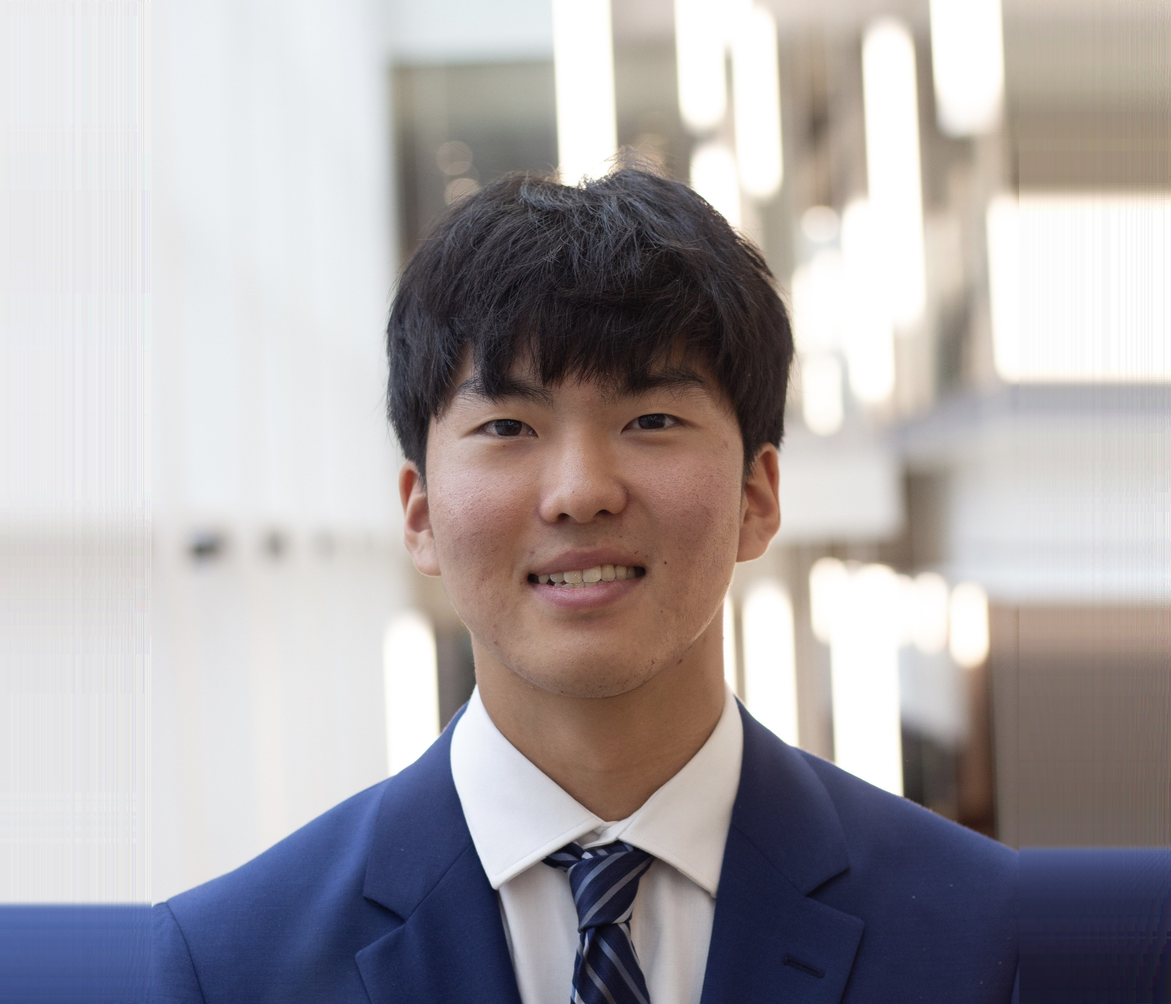
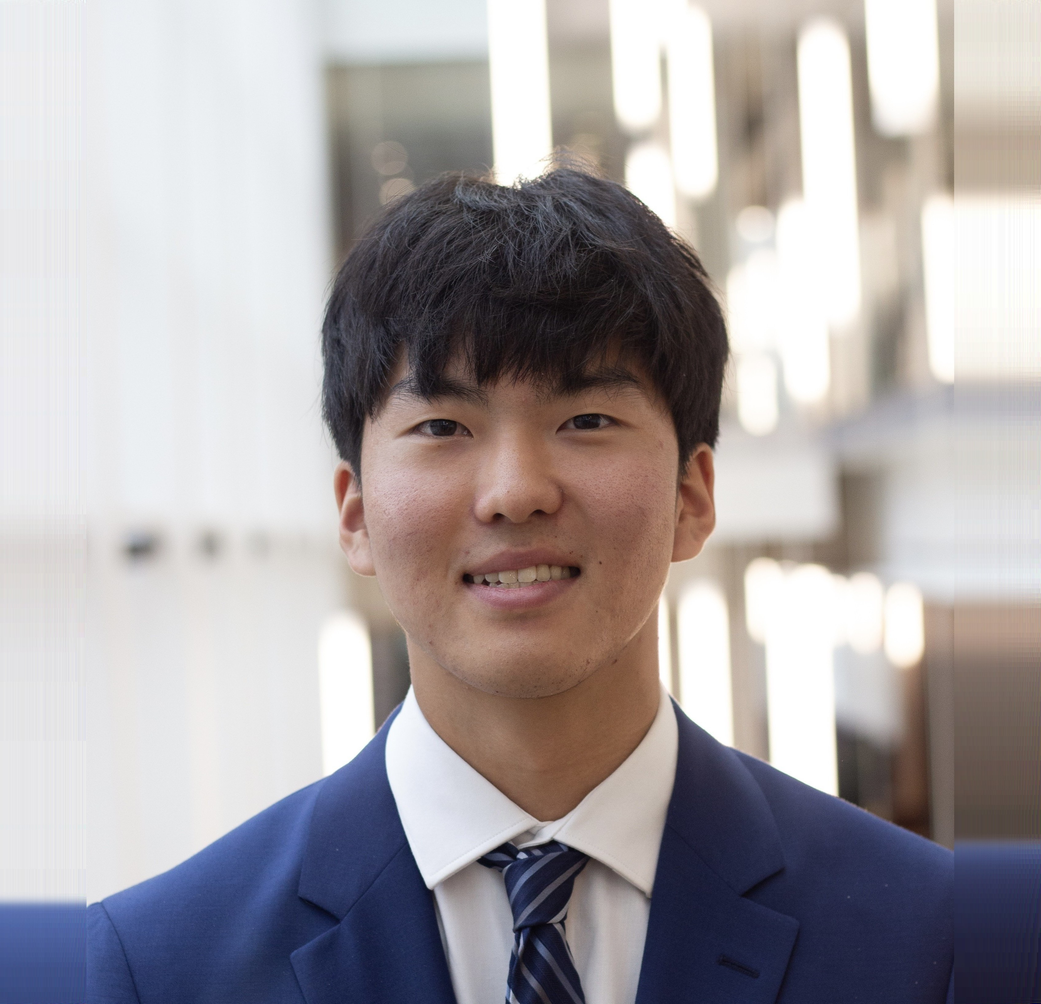
Fix visible seam on Leo's headshot, adjust position

diff --git a/eboard/eboard.html b/eboard/eboard.html
@@ -1008,7 +1008,7 @@
       <!-- Fundraising Chair -->
       <div class="card">
         <div class="headshot-wrap">
-          <img class="headshot-front" src="../eboard_images/Leo26Prof.jpg" alt="headshot" style="object-position: 50% 15%;" onerror="this.onerror=null; this.src='../eboard_images/placeholder.jpg'">
+          <img class="headshot-front" src="../eboard_images/Leo26Prof.jpg" alt="headshot" style="object-position: 50% 55%;" onerror="this.onerror=null; this.src='../eboard_images/placeholder.jpg'">
           <img class="headshot-back" src="../eboard_images/Leo26S.jpg" alt="fun photo" style="object-position: 50% 35%;" onerror="this.onerror=null; this.src='../eboard_images/placeholder.jpg'">
         </div>
         <div class="card-body">
